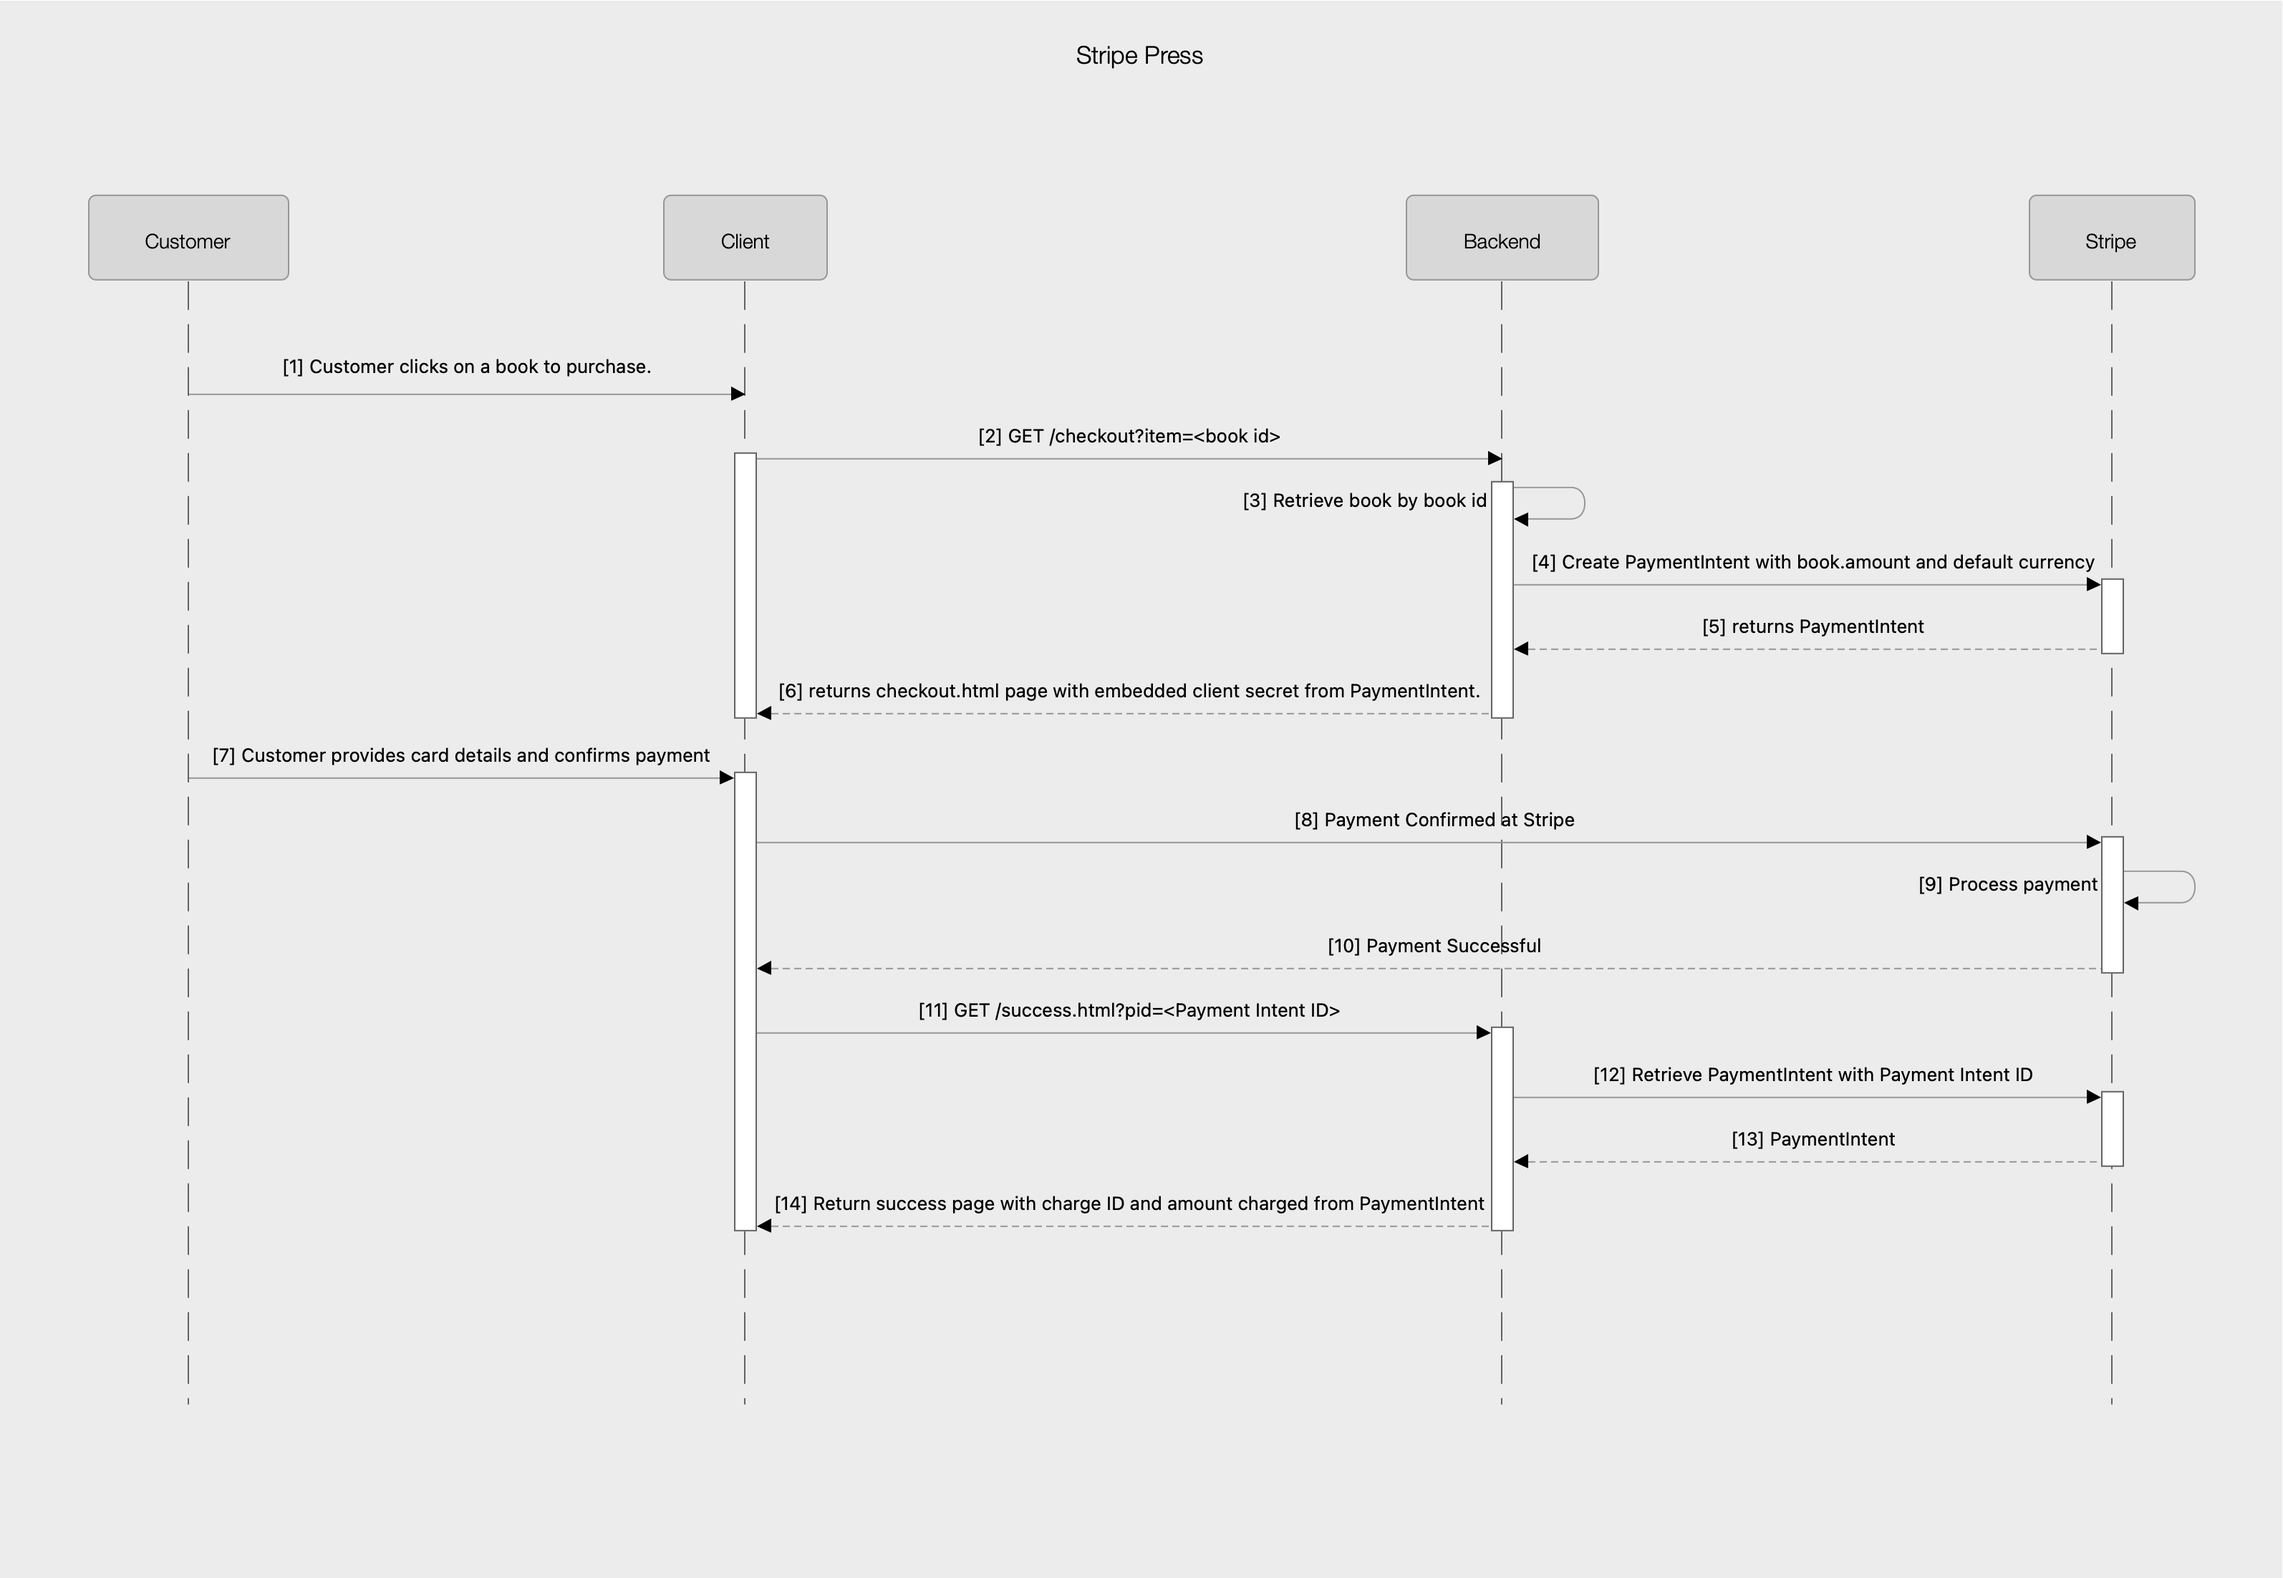
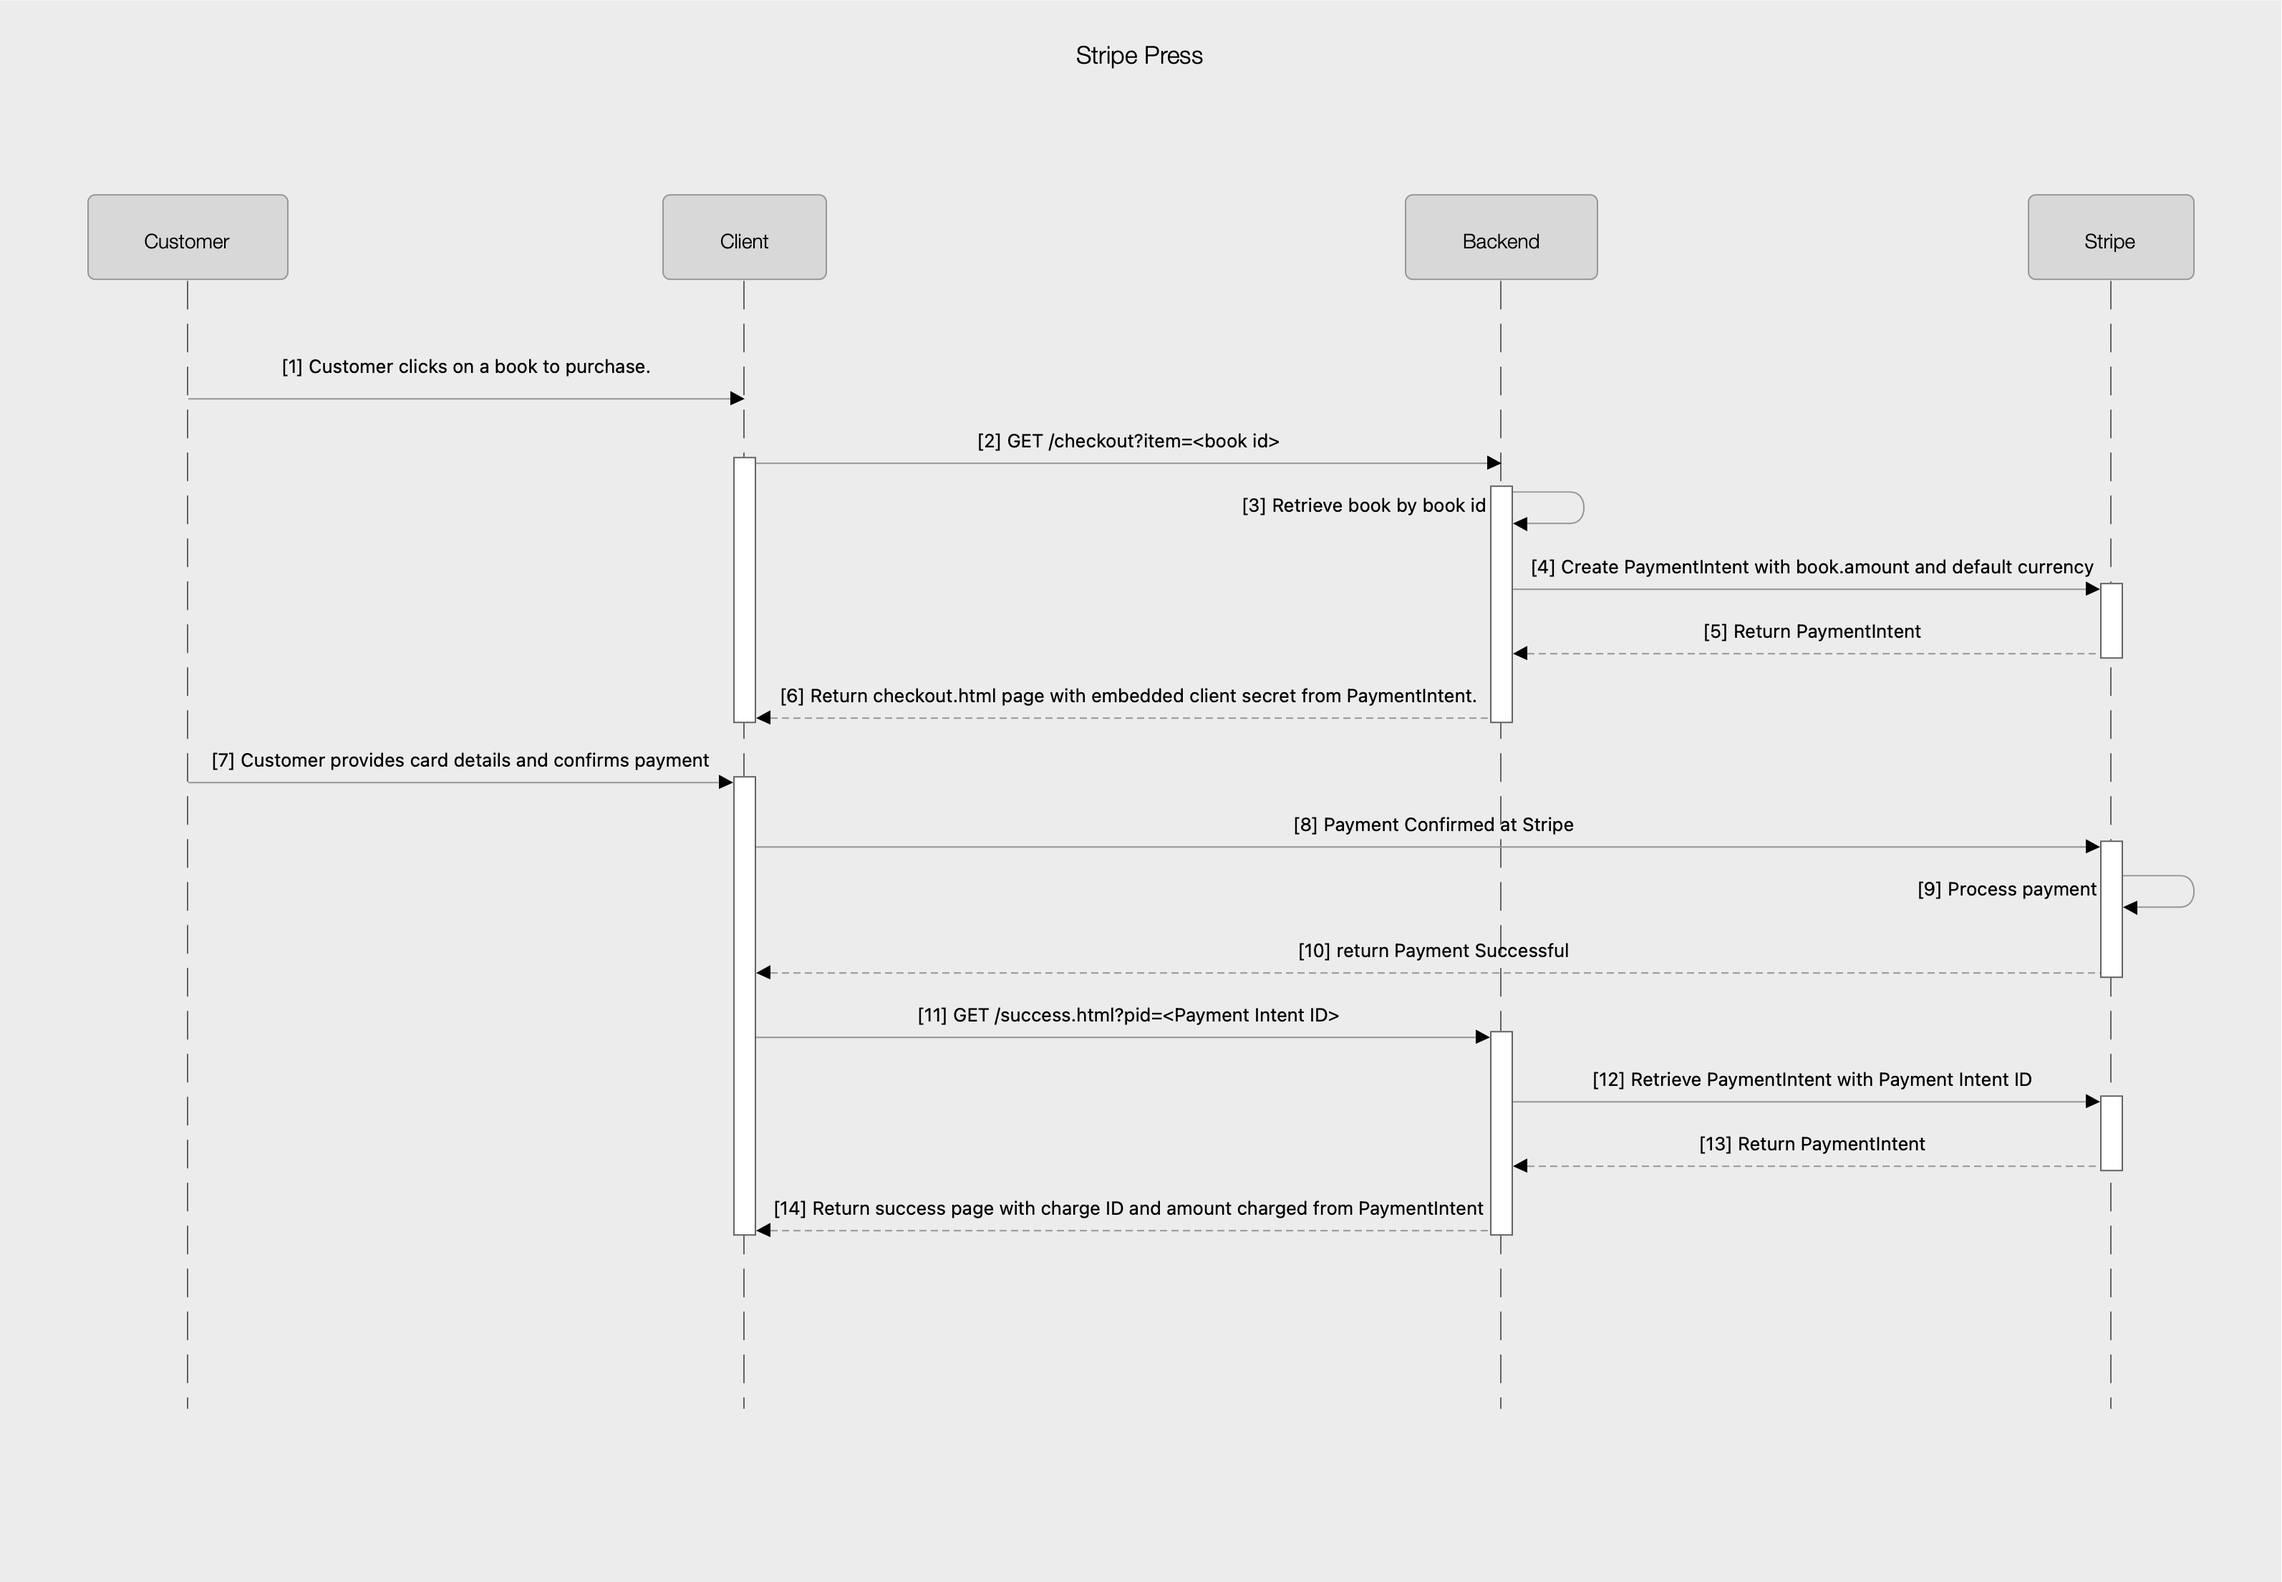
Updated sequence diagram. Corrected wording, grammar in README

diff --git a/README.md b/README.md
@@ -1,10 +1,30 @@
+## Install and Run
+To get started, clone the repository and run pip3 to install dependencies:
+
+```
+git clone  && cd 
+pip3 install -r requirements.txt
+```
+
+Replace `STRIPE_SECRET_KEY` and `STRIPE_PUBLISHABLE_KEY` in `.env` with your Stripe account's test API keys.
+
+Then run the application locally:
+
+```
+flask run
+```
+
+Navigate to [http://localhost:5000](http://localhost:5000) to view the index page.
+
+------
+
 # About
 This is a simple e-commerce application forked from [https://github.com/marko-stripe/sa-takehome-project-python](https://github.com/marko-stripe/sa-takehome-project-python). 
 It is essentially a site that allows site users to select a book and pay for it using Stripe's payment gateway. 
 
 As part of the Solution Architect assessment, my task was to integrate Stripe with this application in order 
 to provide the payment functionality. The following sections will cover how the application works, how I approached 
-this problem and overcome challenges faced in this process before ending it off with a summary on how this application 
+this problem and overcame challenges faced in this process before ending it off with a summary on how this application 
 could be made more robust. 
 
 # Application Overview
@@ -81,7 +101,7 @@ less repeated code throughout the application.
 
 
 ### Challenges Faced
-There was only one challenge that I faced while implementing the payments feature. I could not retrieve the charge ID from the
+The main challenge encountered while implementing the payments feature was retrieving the charge ID from the
 result of calling `stripe.confirmCardPayment(...)` in `checkout.js` after the payment has been confirmed.
 
     stripe.confirmCardPayment(form.dataset.secret, {
@@ -92,7 +112,7 @@ result of calling `stripe.confirmCardPayment(...)` in `checkout.js` after the pa
         console.log(result.charges) // result.charges not found.         
     })
 
-My immediate suspicions were:
+I could think of 2 possible reasons:
 #### 1. There could be a delay between payment confirmation and the creation of a `charge` record.
 
 To test this, I started by checking the payments tab in the Stripe dashbord to see if an event log was available. Sure enough,
@@ -155,23 +175,4 @@ are maintained and deployed separately. The benefits from doing so include:
 2. The ability to the scale the client-side or server side deployment out or in independently depending on traffic.
 3. The ability to add new front-ends (i.e mobile applications) or further decompose the backend for better maintainability and performance (i.e microservices,
 event-driven architectures.)
-
-
-## Install and Run
-To get started, clone the repository and run pip3 to install dependencies:
-
-```
-git clone  && cd 
-pip3 install -r requirements.txt
-```
-
-Replace `STRIPE_SECRET_KEY` and `STRIPE_PUBLISHABLE_KEY` in `.env` with your Stripe account's test API keys.
-
-Then run the application locally:
-
-```
-flask run
-```
-
-Navigate to [http://localhost:5000](http://localhost:5000) to view the index page.
 
